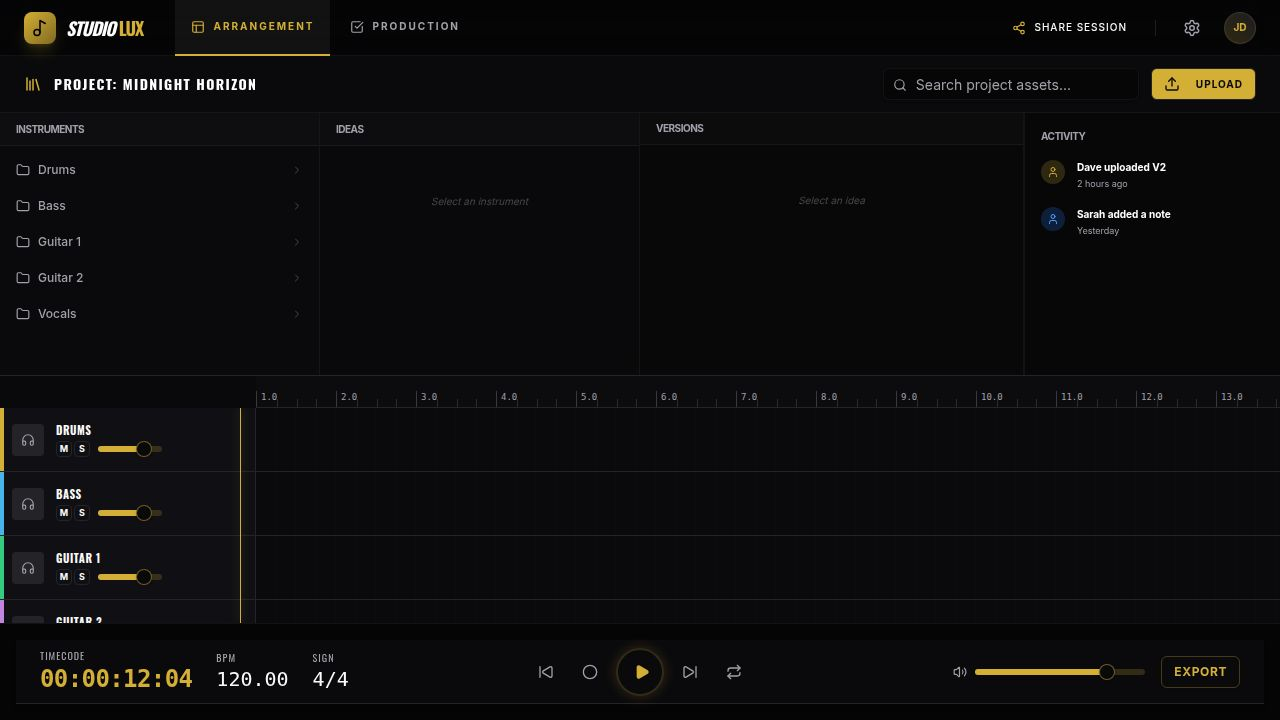
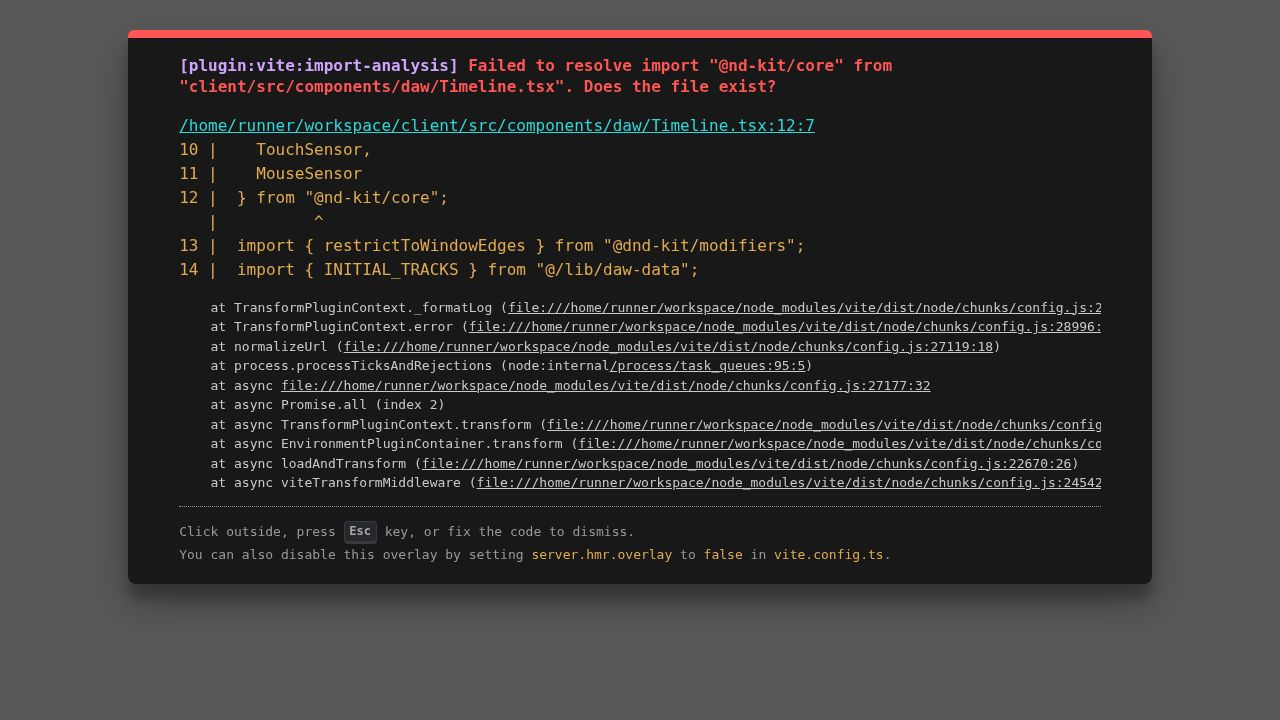
Fix error preventing drag and drop functionality in the songwriting app
Correct an import path for drag and drop modifiers to resolve a runtime error and ensure the application functions correctly.

Replit-Commit-Author: Agent
Replit-Commit-Session-Id: 5182f26f-1df2-40de-8da5-1faee96ad61b
Replit-Commit-Checkpoint-Type: full_checkpoint
Replit-Commit-Event-Id: f1514aac-1141-4acb-a981-463bc9f7d1ae
Replit-Commit-Screenshot-Url: https://storage.googleapis.com/screenshot-production-us-central1/3449fbdb-e630-4505-9843-ec110a45ed40/5182f26f-1df2-40de-8da5-1faee96ad61b/fJkBfnC
Replit-Helium-Checkpoint-Created: true

diff --git a/client/src/components/daw/Timeline.tsx b/client/src/components/daw/Timeline.tsx
@@ -9,8 +9,8 @@ import {
   PointerSensor, 
   TouchSensor, 
   MouseSensor,
-  restrictToWindowEdges
 } from '@dnd-kit/core';
+import { restrictToWindowEdges } from '@dnd-kit/modifiers';
 import { INITIAL_TRACKS, Track, Clip, MOCK_SONG } from '@/lib/daw-data';
 import { TimelineTrack } from './Track';
 import { TimelineClip } from './Clip';